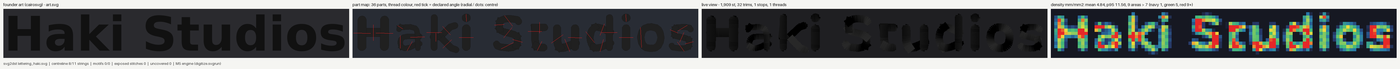
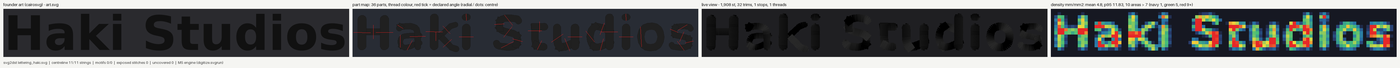
S1 lettering: per-shape rows prune satin edge spurs at 0.6x shape width; each glyph stroke at its own width; cut_other_shapes helper + load-bearing test
lettering fixture 8/11 -> 11/11 (i's were a gate artefact; the a bowl was sewn at one glyph width). Konpeito unchanged.

diff --git a/tests/test_svg_s1.py b/tests/test_svg_s1.py
@@ -188,3 +188,47 @@ def test_cli_more_than_12_colours_is_a_gate_fail_not_a_crash(tmp_path):
     rc, res, log = cli(tmp_path / "many.svg", tmp_path / "o", width=100)
     assert rc == 0, log
     assert gate(res, "threads_le_needles")["pass"] is False and res["ok"] is False
+
+
+# ------------------------------------------------------------------ lettering follow-up (22 Oct): i stems, a bowl, cut-out
+def _png(name):
+    from PIL import Image
+    return np.asarray(Image.open(os.path.join(FIX, name)).convert("L")) > 127
+
+
+def test_wide_satin_edge_spurs_do_not_thin_the_row():
+    """the lettering fixture's i (2.5 mm stem + dot, DST read-back at 20 px/mm): the satin's zig-zag edge grows skeleton
+    spurs ~ half the width, which a fixed 0.6 mm prune keeps and which pull the median width to 0.80"""
+    ref, out = _png("gate_i_ref.png"), _png("gate_i_dst.png")
+    assert qa.centreline_match(ref, out, 20)["ok"] is False                     # fixed 0.6 mm spurs: ratio ~0.8
+    r = qa.centreline_match(ref, out, 20, profile=True)
+    assert r["ok"] is True and abs(r["ratio"] - 1) <= 0.1, r
+
+
+def _svg2dst_inproc(svg, out, width):
+    import importlib.util
+    spec = importlib.util.spec_from_file_location("svg2dst_cli", CLI); m = importlib.util.module_from_spec(spec)
+    spec.loader.exec_module(m)
+    assert m.main(["--svg", svg, "--width-mm", str(width), "--fabric", "twill", "--hoop", "300x300", "--out", str(out), "--name", "t"]) == 0
+    return {r["shape"]: r for r in json.load(open(os.path.join(str(out), "gates.json")))["centreline"]}
+
+
+def test_cut_other_shapes_is_load_bearing(tmp_path, monkeypatch):
+    """gate_file's per-shape window: a 1.6 mm bar 0.3 mm under a same-thread 50 mm fill. With the other shapes' art cut
+    out the bar's row reads its own stitches; without the cut-out the fill's stitches inflate it (ratio 1.4) and it fails"""
+    from digitize import svgrun
+    svg = os.path.join(FIX, "gate_bar_beside_fill.svg")
+    on = _svg2dst_inproc(svg, tmp_path / "on", 60)["2"]
+    assert on["ok"] is True and abs(on["ratio"] - 1) <= 0.15, on
+    monkeypatch.setattr(svgrun, "cut_other_shapes", lambda out, full, ref: out)
+    off = _svg2dst_inproc(svg, tmp_path / "off", 60)["2"]
+    assert off["ok"] is False and off["ratio"] > 1.2, off
+
+
+def test_cli_lettering_every_shape_passes(tmp_path):
+    """DejaVu Sans Bold 'Haki Studios', 100 mm: 11/11 per-shape rows (red at 9711ed5: both i's 0.80-0.82, the a bowl's
+    thick end 0.73 when a glyph was sewn at one width)"""
+    rc, res, log = cli(os.path.join(FIX, "lettering_haki.svg"), tmp_path / "o", width=100)
+    assert rc == 0, log
+    rows = json.load(open(tmp_path / "o" / "gates.json"))["centreline"]
+    assert len(rows) == 11 and all(r["ok"] for r in rows), [(r["shape"], r["ratio"], r.get("ratio90")) for r in rows if not r["ok"]]

diff --git a/engine/digitize/svgrun.py b/engine/digitize/svgrun.py
@@ -251,6 +251,12 @@ def part_map(plan, bounds, path, ppm=8.0):
 
 
 # ------------------------------------------------------------------ gates on the file
+def cut_other_shapes(out, full, ref):
+    """S1 per-shape window: drop the DST pixels that lie on ANOTHER shape's art (a crossing ring, a same-thread fill
+    beside a bar) so one shape's row measures only its own stitches. full = every shape of the layer, ref = this one."""
+    return out & ~(full & ~ref)
+
+
 def gate_file(cfg, plan, dst, rbk, seg_npz=None):
     """every M5 gate on the written DST vs the founder's layers (cairosvg). Families = SVG layers; a family's DST
     stitches = the stops that sew its parts (plan.stops order = file order)."""
@@ -300,7 +306,7 @@ def gate_file(cfg, plan, dst, rbk, seg_npz=None):
                 st = sorted({stop_of[p.id] for p in pe if p.id in stop_of})
                 me = np.any([masks[i] for i in st if i in masks], axis=0) if st else np.zeros(shape, bool)
                 re_ = eref[el]
-                me = me & ~(full & ~re_)
+                me = cut_other_shapes(me, full, re_)
                 r = qa.centreline_match(re_, me, ppm, name=f"{lid} {el or ''} {w_}".replace("  ", " "), profile=True, **kw)
                 r.update(layer=lid, shape=el, stops=[i + 1 for i in st]); cl_rows.append(r)
             continue

diff --git a/engine/qa.py b/engine/qa.py
@@ -192,7 +192,11 @@ def centreline_match(ref, out, ppm, name="", pull=0.0, near_mm=1.0, d_max=0.5, w
     (qa.dst_stop_masks), limited here to near_mm of ref. Returns dict(family, mean_d, p90_d, w_ref, w_dst, ratio, ok)."""
     from scipy.spatial import cKDTree
     o = out & ndi.binary_dilation(ref, iterations=max(1, int(near_mm * ppm)))
-    sr, mr = skeleton(ref, ppm, spur_mm); so, mo = skeleton(o, ppm, spur_mm)
+    sr, mr = skeleton(ref, ppm, spur_mm)
+    if profile and sr.any():    # a satin's zig-zag edge grows skeleton spurs ~ half its width: prune at 0.6 x the shape's width
+        wr0 = float(np.median(2 * ndi.distance_transform_edt(mr)[sr] / ppm))
+        if 0.6 * wr0 > spur_mm: spur_mm = 0.6 * wr0; sr, mr = skeleton(ref, ppm, spur_mm)
+    so, mo = skeleton(o, ppm, spur_mm)
     pts = lambda sk: np.c_[(np.nonzero(sk)[1] + 0.5) / ppm, (np.nonzero(sk)[0] + 0.5) / ppm]
     R, O = pts(sr), pts(so)
     if len(O) == 0 or len(R) == 0:

diff --git a/engine/digitize/extract/svg.py b/engine/digitize/extract/svg.py
@@ -230,6 +230,9 @@ class _B:
                 if L < 0.25: continue
                 if len(sts) > 1 and not closed and L < 1.1 * w: continue        # skeleton spur (cusps, stroke ends)
                 ww = w
+                # S1: each stroke of a glyph at its OWN skeleton width (the bowl of an a swells to 2.5 mm where its
+                # stem is 1.6: one width per glyph sewed the bowl's thick side at 0.73). Hand runs keep one per layer.
+                if per_shape and not closed and s.get("w"): ww = max(min_w, round(float(s["w"]) - ALLOW, 2))
                 if closed: ww = max(0.8 if w >= 0.8 else w, min(w, L / math.pi - (min_counter + 0.2 + ALLOW)))
                 # a width profile only on a shape that IS one open stroke: a glyph's strokes meet at junctions (wider
                 # samples, not a taper) and profiling them sewed the lettering fixture's A thinner (ratio 0.84 -> 0.60)

diff --git a/LESSONS.md b/LESSONS.md
@@ -46,6 +46,7 @@ effect is on record.
 | A33 | S1 drop-in (22 Oct 2026): a layer's NAME is the founder's label, not a role. svg_auto decides each shape from geometry only (dot / knot / stroke / star / petals / fill, fill angle = long axis) and asks a stable-id question where a measure sits near a limit; renaming every layer id gives the same decisions. | Roles come from geometry; a borderline measure becomes a question with an id the next run's answers can name, never a silent guess. | `tests/test_svg_s1.py::test_layer_ids_renamed_same_decisions`, `test_classifier`, `test_cli_question_answer_round_trip` |
 | A34 | S1 logo (22 Oct 2026): the tapered crescent was sewn at ONE column width (the M5 lettering rule) and the centreline gate passed it, because the `[lines]` row pooled it with the ring (w_ref 2.38 vs 2.40). Gating per shape then showed the bottom bar sewn at the ring's width too (pooled per colour; they cross), and a same-thread fill beside the bar leaked into its 1 mm window. A median width also keeps a tapered shape's median when it loses its belly. | S1 strokes are columns per SOURCE ELEMENT; a single long open stroke with narrow ends and a central belly >= 2 mm sews on its width profile (`_taper`). The S1 centreline gate is one row per source shape, every other shape's art cut out of its window, and a tapered reference (w90 - w50 >= 0.4 mm) is also gated on its thick end (ratio90). Hand M5 runs keep the pooled row. | `test_centreline_gate_fails_a_tapered_shape_sewn_at_one_width` (pooled ok, per-shape red), `test_cli_logo_contract_and_per_shape_rows` (red at d0ae3ca: 1 pooled row) |
 | A35 | S1 taper detector, first cut (22 Oct 2026): 'width varies along the centreline' profiled 70 konpeito glyph strokes (2 exposed stitches) and the lettering fixture's i stems and i dot (ratio 0.84 -> 0.60): a stroke that runs into a junction widens at an end, a flat-ended bar's skeleton runs into its corners, a square dot is short. | A taper needs all four: one open stroke for the whole shape, length >= 3x its belly, under half its samples within 10 % of the belly, both ends narrow with the belly in the middle half. Re-run every bench case after a detector change and compare part counts with a profile, not just ok. | `docs`: projects/konpeito-jeans/bench/PARITY_S1.md (profiled parts per case) |
+| A36 | S1 lettering (22 Oct 2026): per-shape rows read both i's at 0.80 and the a bowl's thick end at 0.73. The i was sewn right: a 2.5 mm satin's zig-zag edge grows skeleton spurs ~ half its width, which the fixed 0.6 mm prune kept, pulling the median down. The a was wrong: one width per glyph (1.5 mm) for a bowl that swells to 2.55 mm. | Look at the mask diff before fixing the sewing: a gate miss on a shape that looks right is the gate. Per-shape rows prune spurs at 0.6 x the shape's own width; S1 sews each stroke of a glyph at its own skeleton width. The gate's window cut-out is a named helper (`svgrun.cut_other_shapes`) so a test can switch it off. | `test_wide_satin_edge_spurs_do_not_thin_the_row` (real i masks), `test_cut_other_shapes_is_load_bearing` (off -> ratio 1.4, fails), `test_cli_lettering_every_shape_passes` (red at 9711ed5) |
 | A?? (G1) | Subject splitters (sky, fall, stratum, cloud, building, trunk, crown, blossom; the Koi trial added fish / lily) made every new garment a new rule per animal: never a self-serve engine (founder, 20 Oct 2026). | The engine reads a LABELS CONTRACT (`parts.labels.json`: motif -> parts, each a generic PRIMITIVE - stroke, cord, band, lobe, plane, radial, dot, line - with hint polygons / seeds, tones, z, direction intent, colour, confidence) written by the vision step (today the session looking at `digitize.labels.sheet`; later the PLM call). Geometry is still traced from the pixels inside the hint (A14). A direction intent is declared and audited: along / across / outline are constructed from geometry (construct axis / column / long_axis, the traced outline recorded at extraction), angle is the labeller's (source `label`, audited from meta label_angle, counted independent like an answer and reported on its own line `direction_label`), grain is self-derived. Confidence < review_below becomes a review question (topic `label`); the answer changes the next compile. | `tests/test_digitize_g1.py` (schema rejects 13 bad labels; every primitive on synthetic evidence with an audit tamper turning red; claims / seeds / rest; questions -> answers -> resolve; `test_primitives_and_labels_carry_no_subject_code` (AST scan, proven red on a synthetic `if what == "koi"`)); bench row "G1 labels" on the Castle crop vs main (BENCH_g1.md). |
 
 ## B. Stitch engine (`engine/dst2.py`)

diff --git a/projects/konpeito-jeans/bench/PARITY_S1.md b/projects/konpeito-jeans/bench/PARITY_S1.md
@@ -16,7 +16,7 @@ Reproduce one case (≈5-35 s each, no API calls):
 | spill (facing) | 63.17 | 3,609 / 58 / 7, 7/7 | 3,608 / 58 / 7 | 8/8 | - | 9/9 | - | 0 | 0 |
 | starP + starY | 24.23 (one file) | 281+281 / 1+1 / 2+2, 7/7 each | 562 / 1 / 4 | 8/8 | - | 4/4 | - | 4 (star vs petals; default radial) | 0 |
 | logo (unseen) | 90 | - | 4,797 / 3 / 4 | 8/8 | 3/3 | 1/1 | coherent | 0 | 1 (the crescent) |
-| lettering (unseen) | 100 | - | 1,909 / 32 / 1 | 8/8 | **8/11** (soft) | - | - | 0 | 0 |
+| lettering (unseen) | 100 | - | 1,908 / 32 / 1 | 8/8 | 11/11 | - | - | 0 | 0 |
 | illustration (unseen) | 120 | - | 16,507 / 20 / 8 | 8/8 | 5/5 | 4/4 | coherent | 1 (60wt) | 0 |
 
 Hard gates: engine_real, art_read >= 0.98, fits_hoop, threads <= needles, max stitch <= 7.5 mm, has stitches,
@@ -32,7 +32,17 @@ exposed_none, uncovered_none. Soft: centreline, motifs, fill coherence, question
   out-voted by its 0.9 mm ticks and sewn at 0.85 mm, ratio 0.57).
 - The 4 Konpeito cases are unchanged from the earlier S1 run except the coin (10,597 = the number the handoff recorded).
 
-## Open findings (soft gates; for the founder's judgement on the preview)
+## Lettering follow-up (22 Oct, branch engine-s1-lettering): 8/11 -> 11/11
+- **i stems + dots (0.80-0.82) were a GATE artefact**: the read-back of a 2.5 mm satin has a zig-zag edge whose skeleton
+  spurs (~ half the width) survived the fixed 0.6 mm prune and pulled the median width down. The S1 per-shape row now
+  prunes spurs at 0.6 x the shape's own median width: i rows 1.00. The i was sewn right (looked at: only the square
+  corners round off).
+- **the a bowl (ratio90 0.73) was a real defect**: the whole glyph was sewn at one width (1.5 mm) while its bowl swells to
+  2.55 mm. S1 now sews each stroke of a glyph at its own skeleton width: ratio90 0.80, **on the +-0.20 limit** (passes;
+  the bowl's taper inside a multi-stroke glyph is still one width per stroke).
+- The Konpeito cases are unchanged (same stitch / trim / stop counts).
+
+## Earlier open findings (resolved above)
 - **lettering fixture (DejaVu Sans Bold "Haki Studios")**: 3 of 11 shapes miss the per-shape centreline row: both
   `i`s (stem + dot sewn at 0.80-0.82 of the art width) and the `a` bowl's thick end (ratio90 0.73). The old pooled row
   hid all three. Not tuned further tonight; candidates: weight the `i` dot separately from the stem; profile the

diff --git a/RECAP-2026-10-22-engine-s1-svg-dropin.md b/RECAP-2026-10-22-engine-s1-svg-dropin.md
@@ -56,3 +56,9 @@ use column_points' `prof` width profile (techniques/column_satin.py) or sew as f
 - Full suite: 401 passed (`~/.venvs/techpack/bin/python -m pytest -q tests`).
 - identity_check: probe 84ff50ea74938675 / 1ecd8f657db3f53a, M5 wb 449c14f6e8f693b6, crop 911978994b664110 (all unchanged).
 - Open finding: lettering fixture 8/11 per-shape centreline (both i's 0.80-0.82, a bowl ratio90 0.73), soft; see PARITY_S1.md.
+
+## Pass 3 (lead TASK: lettering follow-up, branch engine-s1-lettering off 9711ed5)
+- i's 0.80-0.82 = gate artefact (zig-zag edge spurs survive a 0.6 mm prune) -> per-shape prune at 0.6 x shape width (`qa.centreline_match(profile=True)`).
+- a bowl ratio90 0.73 = real (one width per glyph) -> per-stroke width in S1 (`extract/svg.py` column()); now 0.80, on the limit.
+- Reviewer note: cut-out moved to `svgrun.cut_other_shapes`; `test_cut_other_shapes_is_load_bearing` switches it off -> bar row ratio 1.4, fails.
+- Lettering 11/11; Konpeito 4 unchanged; fixtures gate_i_ref/dst.png (real read-back masks), gate_bar_beside_fill.svg.
